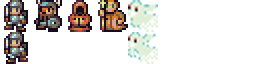
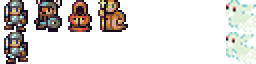
one spirit move

diff --git a/app/src/core/engine.ts b/app/src/core/engine.ts
@@ -41,6 +41,8 @@ const spirMove: GameCharacterMove = {
     needRender: false
 };
 
+let spiritInterval: number;
+
 export function createGame(): GameActions {
     // eslint-disable-next-line no-console
     console.log('[createGame]');
@@ -59,11 +61,12 @@ export function loadLevel(): GameActions {
 export function play(): void {
     // eslint-disable-next-line no-console
     console.log('[play]');
-    setStartPosition();
+    setCharStartPosition();
+
     loop();
 }
 
-const setStartPosition = (): void => {
+const setCharStartPosition = (): void => {
     [charMove.posx, charMove.posy] = gameCurrentLevel.map?.startPoint || [0, 0];
     charMove.needRender = true;
     characterMove();
@@ -101,9 +104,11 @@ export function setCanvas(canvasElement: HTMLCanvasElement | null): CanvasContex
 export function createPauseListener(cb: EmptyCallback): EmptyCallback {
     const handler = createEscapeHandler(cb);
     window.addEventListener('keydown', handler);
+    spiritInterval = window.setInterval(spiritEnabled, 1000);
 
     return () => {
         window.removeEventListener('keydown', handler);
+        window.clearInterval(spiritInterval);
     };
 }
 
@@ -112,10 +117,12 @@ export function createGameListener(cbEscape: EmptyCallback): EmptyCallback {
     const arrowHandler = createArrowsHandler(move);
     window.addEventListener('keydown', escapeHandler);
     window.addEventListener('keydown', arrowHandler);
+    spiritInterval = window.setInterval(spiritEnabled, 150);
 
     return () => {
         window.removeEventListener('keydown', escapeHandler);
         window.removeEventListener('keydown', arrowHandler);
+        window.clearInterval(spiritInterval);
     };
 }
 
@@ -181,6 +188,7 @@ function loop(): void {
     if (gameState !== 'GAME') {
         return;
     }
+
     spiritMove();
     characterMove();
     interactionCheck();
@@ -202,13 +210,32 @@ function characterMove(): void {
     }
 }
 
+function spiritEnabled(): void {
+    spirMove.needRender = true;
+}
 /*
- * Spirit move
+ * Spirit move by Canvas
  */
 function spiritMove(): void {
     if (spirMove.needRender) {
+        spiritChangePosition();
         spirMove.needRender = false;
         moves(spirMove.posx, spirMove.posy);
+    }
+}
+
+/*
+ *
+ */
+const spirDiff = [1, 1];
+function spiritChangePosition(): void {
+    spirMove.posx += spirDiff[0];
+    spirMove.posy += spirDiff[1];
+    if (spirMove.posx === LEVEL_SIZE.x || spirMove.posx === 0) {
+        spirDiff[0] = spirDiff[0] === -1 ? 1 : -1;
+    }
+    if (spirMove.posy === LEVEL_SIZE.y || spirMove.posy === 0) {
+        spirDiff[1] = spirDiff[1] === -1 ? 1 : -1;
     }
 }
 

diff --git a/app/src/core/sprites/character/character.ts b/app/src/core/sprites/character/character.ts
@@ -16,8 +16,8 @@ const SPRITES = {
     WARRIOR: createSprite(assetMap, 1, 0),
     MAGE: createSprite(assetMap, 2, 0),
     PRIEST: createSprite(assetMap, 3, 0),
-    SPIRIT: createSprite(assetMap, 4, 0),
-    SPIRIT_2: createSprite(assetMap, 4, 1)
+    SPIRIT: createSprite(assetMap, 7, 0),
+    SPIRIT_2: createSprite(assetMap, 7, 1)
 };
 
 const VARIANTS: AssetVariants = {
